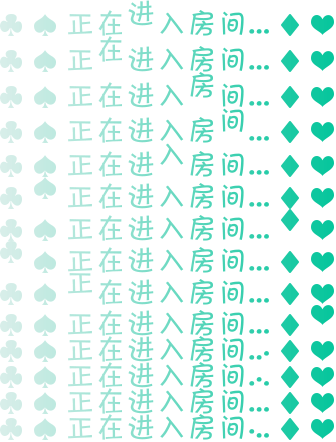
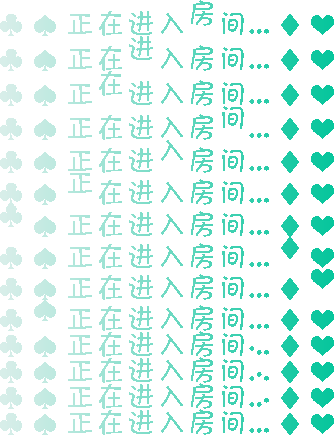
1902221504

diff --git a/js/default.thm_759cdd39.js b/js/default.thm_759cdd39.js
@@ -7852,7 +7852,6 @@ window.skins={};
 		this.loadingGroup = t;
 		t.height = 50;
 		t.horizontalCenter = 0;
-		t.visible = false;
 		t.width = 400;
 		t.y = 700;
 		return t;
